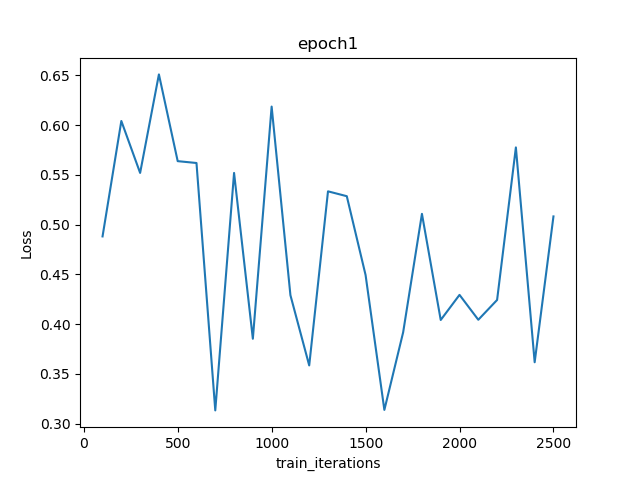
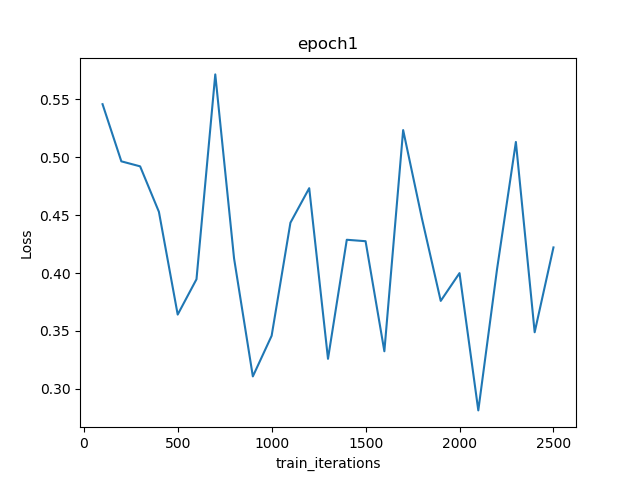
rename/reorganize exp results on lr

diff --git a/CelebA.py b/CelebA.py
@@ -24,7 +24,7 @@ from sklearn.metrics import f1_score
 from model.vgg16 import *
 from model.hybrid_CNN import Hybrid_Conv2d
 
-experiment_name = 'vgg16_bn_64_lr_1e-6'
+experiment_name = 'vgg16_bn_64_lr_1e-4'
 device = torch.device('cuda:0' if torch.cuda.is_available() else 'cpu')
 
 
@@ -188,7 +188,7 @@ def evaluate(val_loader, model):
         print('F1 Score: {}'.format(f1_score(y_true, y_pred, average='macro')))
         print('Validation accuracy: {}'.format(correct / total))
         with open(experiment_name+'.txt', 'a') as f:
-            print('F1 Score: {}'.format(f1_score(y_true, y_pred, average='macro')))
+            print('F1 Score: {}'.format(f1_score(y_true, y_pred, average='macro')), file=f)
             print('Validation accuracy: {}'.format(correct / total), file=f)
     
     
@@ -197,7 +197,7 @@ def main():
     num_epochs = 1
     num_classes = 2
     batch_size = 64
-    learning_rate = 10e-6
+    learning_rate = 1e-4
     model_name = MyVGG16()
     
     print("Loading data...")

diff --git a/readme.md b/readme.md
@@ -138,3 +138,6 @@ Manuscript Outline:
  - Experiments (tables, baseline, hybrid, Batch input, different LR)
  - Observation (eevaluation metrics + results + plots)
  - Discussion / Future direction (on 3D medical imaging)
+
+
+ Note: the 1e-4 in results are actually 10e-4. etc
